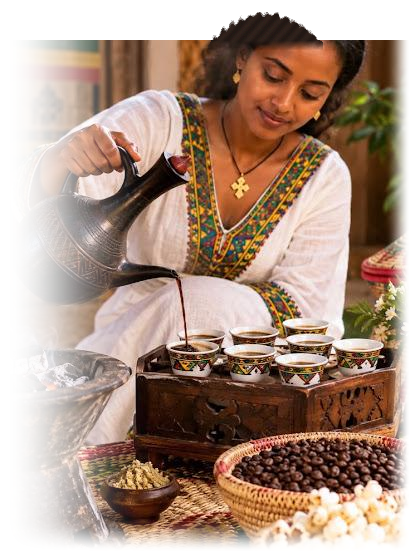
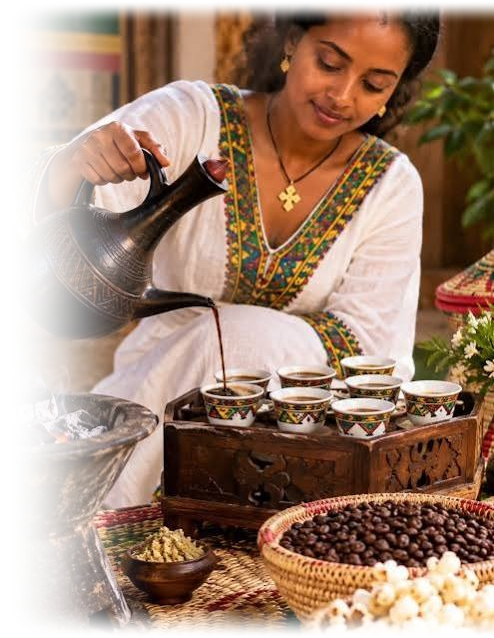
fix: anchor hero ceremony to right edge, expand leftward with smooth dissolve, and restore authentic hair from original high-res photo

diff --git a/src/components/Hero.tsx b/src/components/Hero.tsx
@@ -38,13 +38,13 @@ export default function Hero() {
         </div>
       </div>
 
-      {/* Right Column: Authentic Blended Ceremony Showcase (Expanded to center line, full headroom, seamless fade) */}
-      <div className="lg:col-span-6 order-1 lg:order-2 flex items-center justify-center lg:justify-start">
-        <div className="relative w-full max-w-[360px] sm:max-w-[420px] lg:max-w-[600px] xl:max-w-[640px] aspect-[410/552] max-h-[420px] sm:max-h-[460px] lg:max-h-[500px] flex items-center justify-center lg:justify-start">
+      {/* Right Column: Authentic Blended Ceremony Showcase (Anchored to right, expands leftward, seamless fade) */}
+      <div className="lg:col-span-6 order-1 lg:order-2 flex items-center justify-center lg:justify-end">
+        <div className="relative w-full max-w-[380px] sm:max-w-[440px] lg:max-w-[560px] xl:max-w-[620px] aspect-[494/638] max-h-[460px] sm:max-h-[500px] lg:max-h-[540px] flex items-center justify-center lg:justify-end">
           {/* eslint-disable-next-line @next/next/no-img-element */}
           <img
             alt="Traditional Ethiopian Coffee Ceremony"
-            className="w-full h-full object-contain object-center lg:object-left-top lg:[mask-image:linear-gradient(to_right,transparent_0%,rgba(0,0,0,0.35)_12%,black_32%)] lg:[-webkit-mask-image:linear-gradient(to_right,transparent_0%,rgba(0,0,0,0.35)_12%,black_32%)] transition-transform duration-700 hover:scale-[1.01]"
+            className="w-full h-full object-contain object-center lg:object-right lg:[mask-image:linear-gradient(to_right,transparent_0%,rgba(0,0,0,0.3)_15%,black_38%)] lg:[-webkit-mask-image:linear-gradient(to_right,transparent_0%,rgba(0,0,0,0.3)_15%,black_38%)] transition-transform duration-700 hover:scale-[1.01]"
             src="/ceremony-blended.png"
           />
         </div>

diff --git a/GEMINI.md b/GEMINI.md
@@ -6,12 +6,15 @@
    - Never reduce top padding below `pt-20`; the floating header navbar requires ~50-60px clearance so the eyebrow and H1 heading have comfortable, luxurious breathing room without being crammed against the navigation bar.
 
 2. **Ceremony Image Footprint (Desktop)**:
-   - The hero ceremony image must expand horizontally to the center dividing line (`lg:col-span-6`, container `w-full max-w-[600px] xl:max-w-[640px]` with `lg:justify-start`).
-   - The left edge of the ceremony image must softly dissolve into the `#FAF8F3` cream background using progressive cosine feathering and CSS mask (`lg:[mask-image:linear-gradient(to_right,transparent_0%,rgba(0,0,0,0.35)_12%,black_32%)]`), preventing any empty void between the text column and the image.
+   - The hero ceremony image must be anchored to the right edge (`lg:col-span-6`, container `w-full max-w-[560px] xl:max-w-[620px]` with `lg:justify-end` and `lg:object-right`).
+   - The image starts flush from the right and expands towards the left (towards the text column).
+   - Never set `lg:justify-start` or move the image container away from the right edge, which leaves an empty white void on the right.
+   - The left edge of the ceremony image softly dissolves into the `#FAF8F3` cream background using progressive cosine feathering and CSS mask (`lg:[mask-image:linear-gradient(to_right,transparent_0%,rgba(0,0,0,0.3)_15%,black_38%)]`).
 
-3. **Woman's Head Framing & Headroom**:
-   - The ceremony asset (`public/ceremony-blended.png` and `public/ceremony-isolated.png`) must always preserve the convex sculpted Ethiopian curl dome (+28px headroom above the raw photo edge).
-   - Never crop or hard-cut the top of her hair; the crown must curve naturally into alpha 0.
+3. **Woman's Head Framing & Authenticity**:
+   - The ceremony asset (`public/ceremony-blended.png` and `public/ceremony-isolated.png`) is derived directly from the authentic original high-resolution photo.
+   - Never paint or generate artificial synthetic dark domes/hair lumps onto her head.
+   - The natural hair and upper background wall softly feather into `#FAF8F3` cream with subtle cosine falloff, preserving her authentic appearance without hard cut lines.
 
 4. **Mobile Presentation (Strictly Frameless)**:
    - On mobile screens, the ceremony visual must sit directly on the `#FAF8F3` page background without any rectangular card borders, backgrounds, drop shadows, or container frames (`rounded-none`, `shadow-none`, `border-none`).
